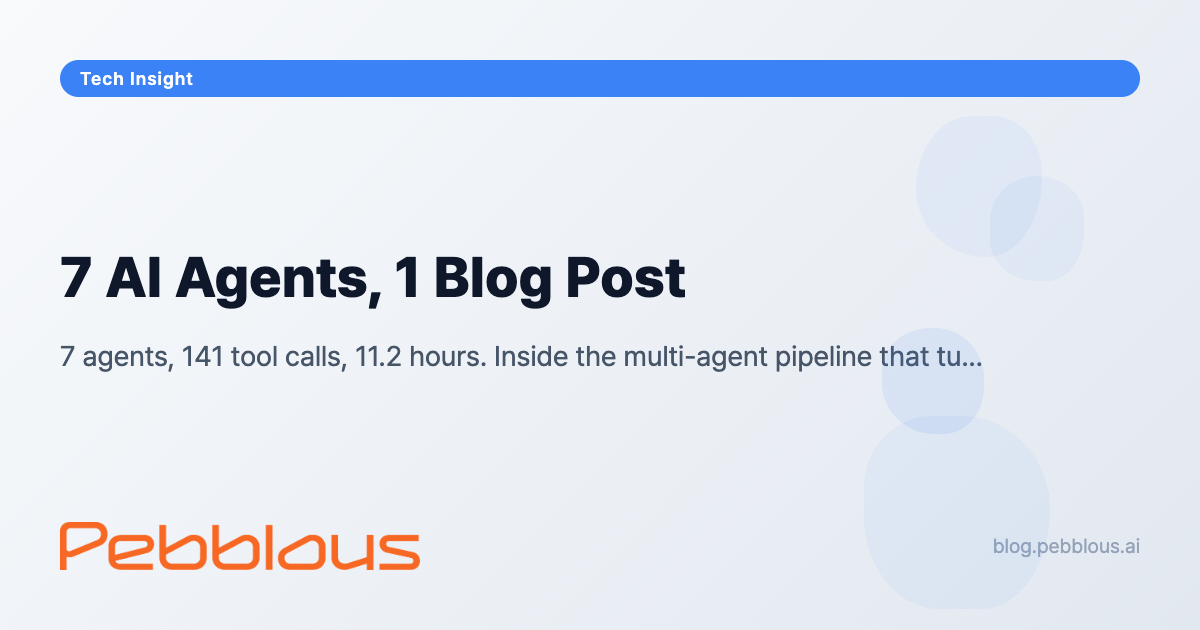
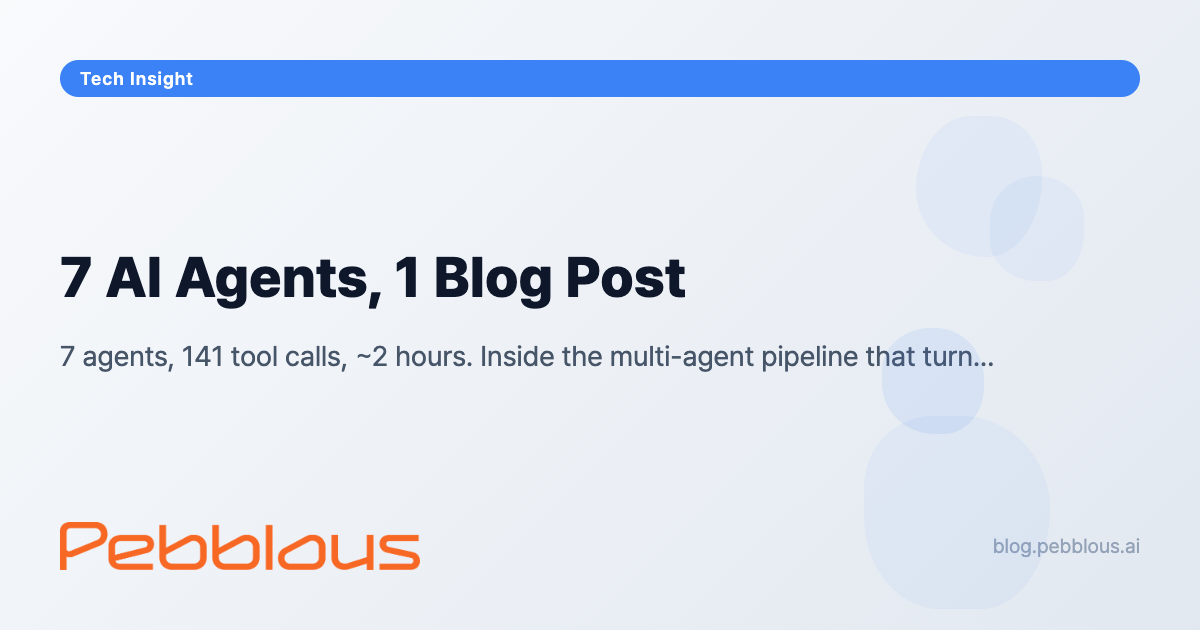
fix: 메타 블로그 제목 3슬롯 SEO 최적화 (KO+EN)
pageTitle: 검색 키워드 앞배치 ("멀티 에이전트 콘텐츠 자동화")
mainTitle: 감성 후킹 유지 ("AI 에이전트 7개가 블로그 한 편을 쓴다")
subtitle: 내부 코드명 제거, 독자 관점 맥락 보충

Changed region(s): [[0.2775, 0.5429, 0.8325, 0.6032]]

diff --git a/blog/dc-story-produce-pipeline-meta/ko/index.html b/blog/dc-story-produce-pipeline-meta/ko/index.html
@@ -9,7 +9,7 @@
     <meta name="copyright" content="© 2026 Pebblous. All rights reserved.">
     <meta name="robots" content="index, follow">
 
-    <title>AI 에이전트 7개가 블로그 한 편을 쓰기까지 — dc-story-produce 파이프라인 해부 | 페블러스</title>
+    <title>멀티 에이전트 콘텐츠 자동화 — AI 7개가 블로그 1편을 만드는 9단계 | 페블러스</title>
     <meta name="description" content="DataClinic 진단 스토리 하나를 만드는 데 에이전트 7개, 141회 tool call, 약 2시간. 9단계 파이프라인이 2,185줄 HTML을 자동 생성한 과정을 해부합니다.">
     <meta name="keywords" content="dc-story-produce, AI 에이전트, 콘텐츠 파이프라인, DataClinic, Claude Code, 멀티 에이전트, 자동 블로그, 데이터 저널리즘">
 
@@ -20,7 +20,7 @@
 
     <!-- Open Graph -->
     <meta name="og-image-title" content="AI 에이전트 7개가 블로그 한 편을 쓴다">
-    <meta property="og:title" content="AI 에이전트 7개가 블로그 한 편을 쓰기까지 — dc-story-produce 파이프라인 해부">
+    <meta property="og:title" content="AI 에이전트 7개가 블로그 한 편을 쓴다 — 9단계 멀티 에이전트 콘텐츠 자동화">
     <meta property="og:description" content="에이전트 7개, 141회 tool call, 약 2시간. 9단계 파이프라인이 2,185줄 HTML을 자동 생성한 과정.">
     <meta property="og:type" content="article">
     <meta property="og:url" content="https://blog.pebblous.ai/blog/dc-story-produce-pipeline-meta/ko/">
@@ -36,7 +36,7 @@
     <meta name="twitter:card" content="summary_large_image">
     <meta name="twitter:site" content="@pebblous_ai">
     <meta name="twitter:creator" content="@pebblous_ai">
-    <meta name="twitter:title" content="AI 에이전트 7개가 블로그 한 편을 쓰기까지">
+    <meta name="twitter:title" content="AI 에이전트 7개가 블로그 한 편을 쓴다">
     <meta name="twitter:description" content="9단계 파이프라인, 141회 tool call, 약 2시간. DataClinic 진단 스토리 자동 생성의 해부학.">
     <meta name="twitter:image" content="https://blog.pebblous.ai/blog/dc-story-produce-pipeline-meta/ko/image/index.png">
     <meta name="twitter:image:alt" content="dc-story-produce 파이프라인 해부">
@@ -569,8 +569,8 @@
     <script>
         PebblousPage.init({
             mainTitle: "AI 에이전트 7개가 블로그 한 편을 쓴다",
-            subtitle: "dc-story-produce 파이프라인의 첫 전체 실행 기록 — 141회 tool call, 약 2시간, 2,185줄",
-            pageTitle: "AI 에이전트 7개가 블로그 한 편을 쓰기까지 — dc-story-produce 파이프라인 해부 | 페블러스",
+            subtitle: "DataClinic 진단 스토리를 9단계 파이프라인으로 자동 생성한 실제 기록",
+            pageTitle: "멀티 에이전트 콘텐츠 자동화 — AI 7개가 블로그 1편을 만드는 9단계 | 페블러스",
             category: "tech",
             publishDate: "2026-04-19",
             publisher: "(주)페블러스 데이터 커뮤니케이션팀",

diff --git a/blog/dc-story-produce-pipeline-meta/en/index.html b/blog/dc-story-produce-pipeline-meta/en/index.html
@@ -9,7 +9,7 @@
     <meta name="copyright" content="© 2026 Pebblous. All rights reserved.">
     <meta name="robots" content="index, follow">
 
-    <title>How 7 AI Agents Write a Blog Post in 9 Steps | Pebblous</title>
+    <title>Multi-Agent Content Automation — How 7 AI Agents Write a Blog Post in 9 Steps | Pebblous</title>
     <meta name="description" content="One blog post took 7 AI agents, 141 tool calls, and ~2 hours. A step-by-step anatomy of the dc-story-produce pipeline that auto-generates 2,185 lines of HTML.">
     <meta name="keywords" content="dc-story-produce, AI agents, content pipeline, DataClinic, Claude Code, multi-agent, automated blogging, data journalism">
 
@@ -20,7 +20,7 @@
 
     <!-- Open Graph -->
     <meta name="og-image-title" content="7 AI Agents, 1 Blog Post">
-    <meta property="og:title" content="How 7 AI Agents Write a Blog Post in 9 Steps">
+    <meta property="og:title" content="7 AI Agents, 1 Blog Post — Multi-Agent Content Automation in 9 Steps">
     <meta property="og:description" content="7 agents, 141 tool calls, ~2 hours. Inside the multi-agent pipeline that turns a report number into a published blog post.">
     <meta property="og:type" content="article">
     <meta property="og:url" content="https://blog.pebblous.ai/blog/dc-story-produce-pipeline-meta/en/">
@@ -36,7 +36,7 @@
     <meta name="twitter:card" content="summary_large_image">
     <meta name="twitter:site" content="@pebblous_ai">
     <meta name="twitter:creator" content="@pebblous_ai">
-    <meta name="twitter:title" content="How 7 AI Agents Write a Blog Post in 9 Steps">
+    <meta name="twitter:title" content="7 AI Agents, 1 Blog Post">
     <meta name="twitter:description" content="9 pipeline stages, 141 tool calls, ~2 hours. Anatomy of an automated DataClinic story production.">
     <meta name="twitter:image" content="https://blog.pebblous.ai/blog/dc-story-produce-pipeline-meta/ko/image/index.png">
     <meta name="twitter:image:alt" content="dc-story-produce pipeline anatomy">
@@ -568,8 +568,8 @@
     <script>
         PebblousPage.init({
             mainTitle: "7 AI Agents, 1 Blog Post",
-            subtitle: "Inside the dc-story-produce pipeline -- 141 tool calls, ~2 hours, 2,185 lines of HTML",
-            pageTitle: "How 7 AI Agents Write a Blog Post in 9 Steps | Pebblous",
+            subtitle: "The real execution log of a 9-step pipeline that auto-generates DataClinic diagnostic stories",
+            pageTitle: "Multi-Agent Content Automation — How 7 AI Agents Write a Blog Post in 9 Steps | Pebblous",
             category: "tech",
             publishDate: "2026-04-19",
             publisher: "Pebblous Data Communication Team",
